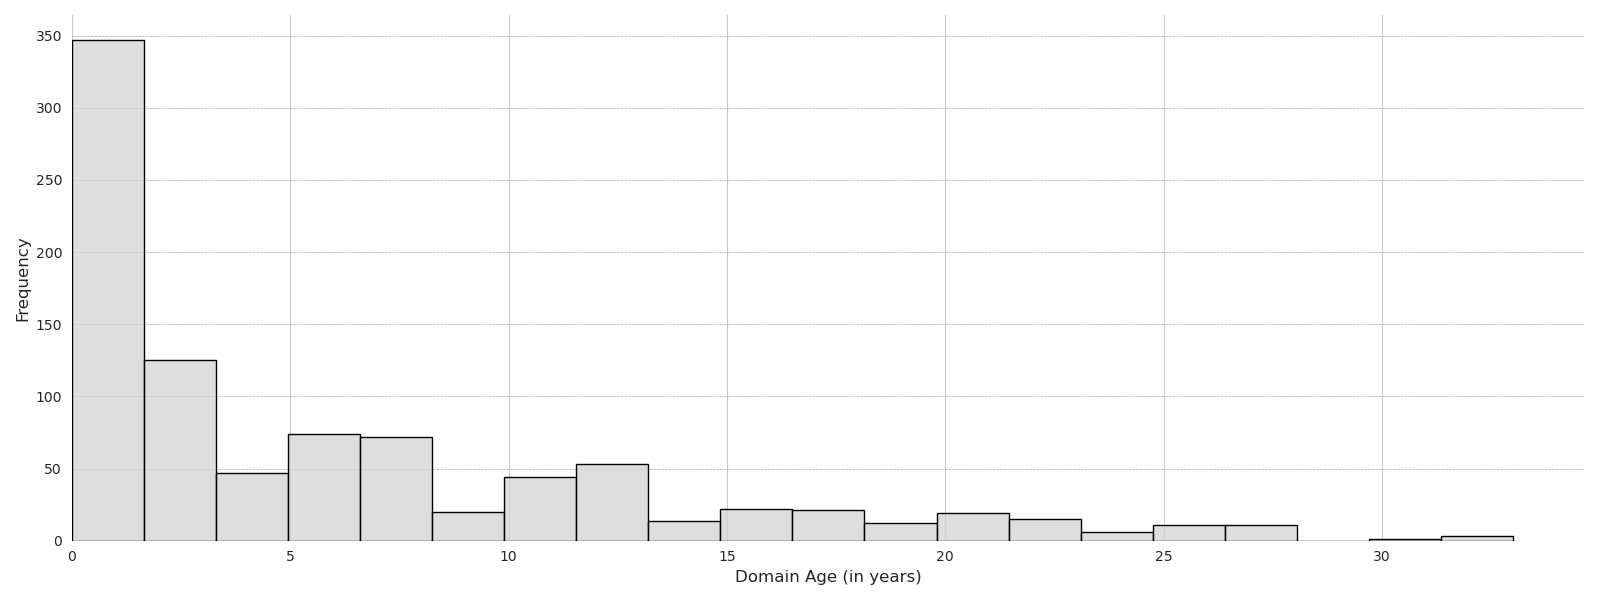
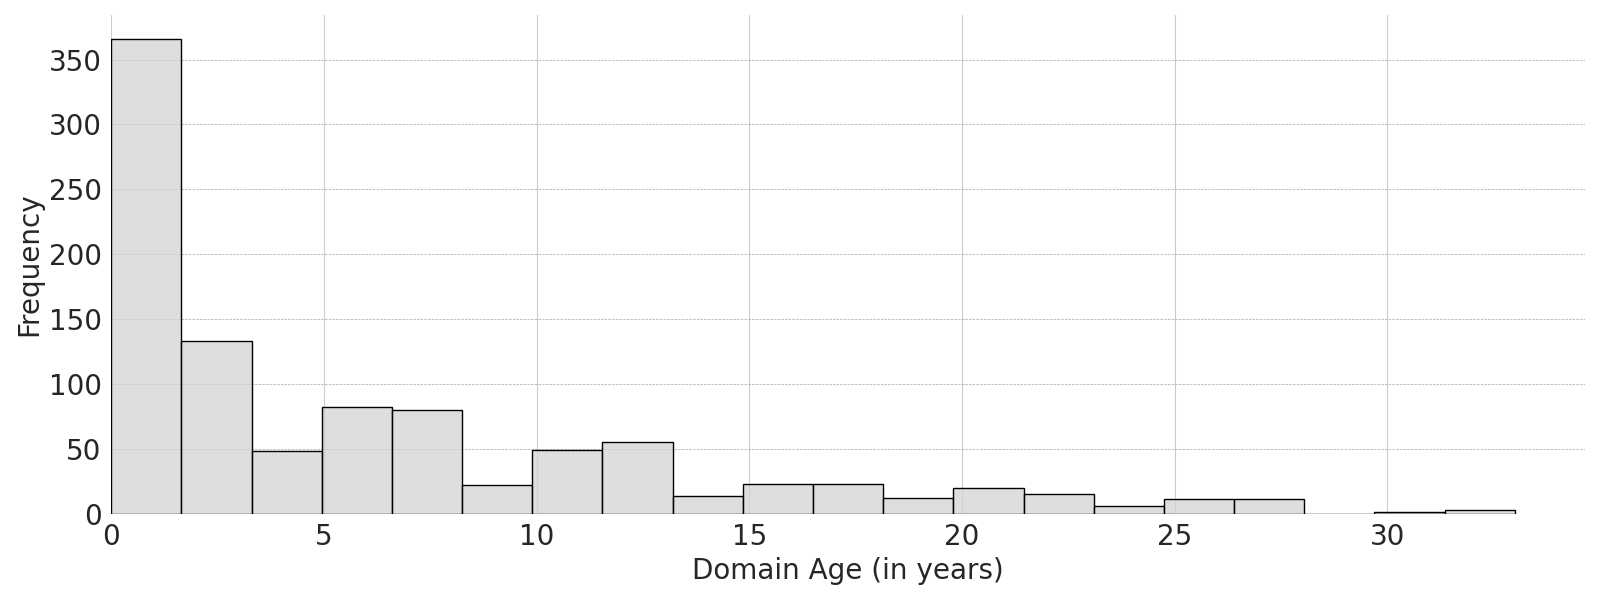
update plots

diff --git a/field_study/draw_utils.py b/field_study/draw_utils.py
@@ -189,10 +189,9 @@ class DomainAnalysis:
         sns.histplot(domain_age_list, bins=20, color='lightgray', edgecolor='black',
                      kde=False)  # Match color and edgecolor
 
-        # plt.title('Distribution of Domain Ages', fontsize=14)
-        plt.xlabel('Domain Age (in years)', fontsize=12)
-        plt.ylabel('Frequency', fontsize=12)
-        ax.tick_params(axis='both', which='major', labelsize=10)
+        plt.xlabel('Domain Age (in years)', fontsize=20)
+        plt.ylabel('Frequency', fontsize=20)
+        ax.tick_params(axis='both', which='major', labelsize=20)
         ax.yaxis.grid(True, linestyle='--', linewidth=0.5, color='gray', alpha=0.7)  # Light grid lines only for y-axis
 
         plt.xlim(left=0)
@@ -216,13 +215,12 @@ class BrandAnalysis:
         brands_sorted = [item[0] for item in sorted_brands][:topk]
         counts_sorted = [item[1] for item in sorted_brands][:topk]
 
-        plt.figure(figsize=(16, 6))  # Wider figure
+        plt.figure(figsize=(20, 10))  # Wider figure
         plt.bar(brands_sorted, counts_sorted, color='lightgray', edgecolor='black')
-        plt.xlabel('Brands', fontsize=12)
-        plt.ylabel('Number of Times Targeted', fontsize=12)
-        # plt.title(f'Top {topk} Phishing Targets by Frequency', fontsize=14)
-        plt.xticks(rotation=45, fontsize=10)
-        plt.yticks(np.arange(0, max(counts_sorted) + 1, 1), fontsize=10)
+        plt.xlabel('Brands', fontsize=20)
+        plt.ylabel('Number of Times Targeted', fontsize=20)
+        plt.xticks(rotation=45, fontsize=20)
+        plt.yticks(np.arange(0, max(counts_sorted) + 1, 1), fontsize=15)
         plt.gca().spines['top'].set_visible(False)
         plt.gca().spines['right'].set_visible(False)
         plt.grid(axis='y', linestyle='--', linewidth=0.5, color='gray')  # Light grid lines only for y-axis
@@ -293,7 +291,7 @@ class IPAnalysis:
 
         world['counts'] = world['name'].map(country_counts).fillna(0)
 
-        fig, ax = plt.subplots(1, 1, figsize=(15, 10),
+        fig, ax = plt.subplots(1, 1, figsize=(30, 10),
                                subplot_kw={'projection': ccrs.Robinson()})  # Set the projection to Robinson
 
         # Color countries based on counts
@@ -389,7 +387,7 @@ class CampaignAnalysis:
         plt.figure(figsize=(10, 6))
 
         # Define Color Palette
-        colors = cycle(sns.color_palette("husl", 5))
+        colors = cycle(sns.color_palette("husl", 6))
 
         # Extract Unique Dates and Sort Clusters
         all_dates = set()
@@ -414,6 +412,7 @@ class CampaignAnalysis:
             if len(cluster) < 4 or targets[0] == 'outlook.com':
                 continue
 
+            print(cluster)
             # Convert Cluster to Time Series
             dates, counts = self.cluster_to_timeseries(cluster, all_dates)
 
@@ -436,10 +435,11 @@ class CampaignAnalysis:
                 trimmed_dates = dates[first_increase_index:last_increase_index + 1]
                 trimmed_counts = offset_counts[first_increase_index:last_increase_index + 1]
                 color = next(colors)
-                plt.plot(trimmed_dates, trimmed_counts, marker='o', color=color, label=f'Target = {targets[0]}')
+                trimmed_indices = [all_dates.index(date) for date in trimmed_dates]
+                plt.plot(trimmed_indices, trimmed_counts, marker='o', color=color, label=f'Target = {targets[0]}')
 
         # Configure Plot Aesthetics
-        plt.xticks(range(len(all_dates)), all_dates, rotation=45)
+        plt.xticks(range(len(all_dates)), all_dates, rotation=90)
         plt.ylim(bottom=0)
         plt.yticks(np.arange(0, 6, 1))
         plt.xlabel('Date')
